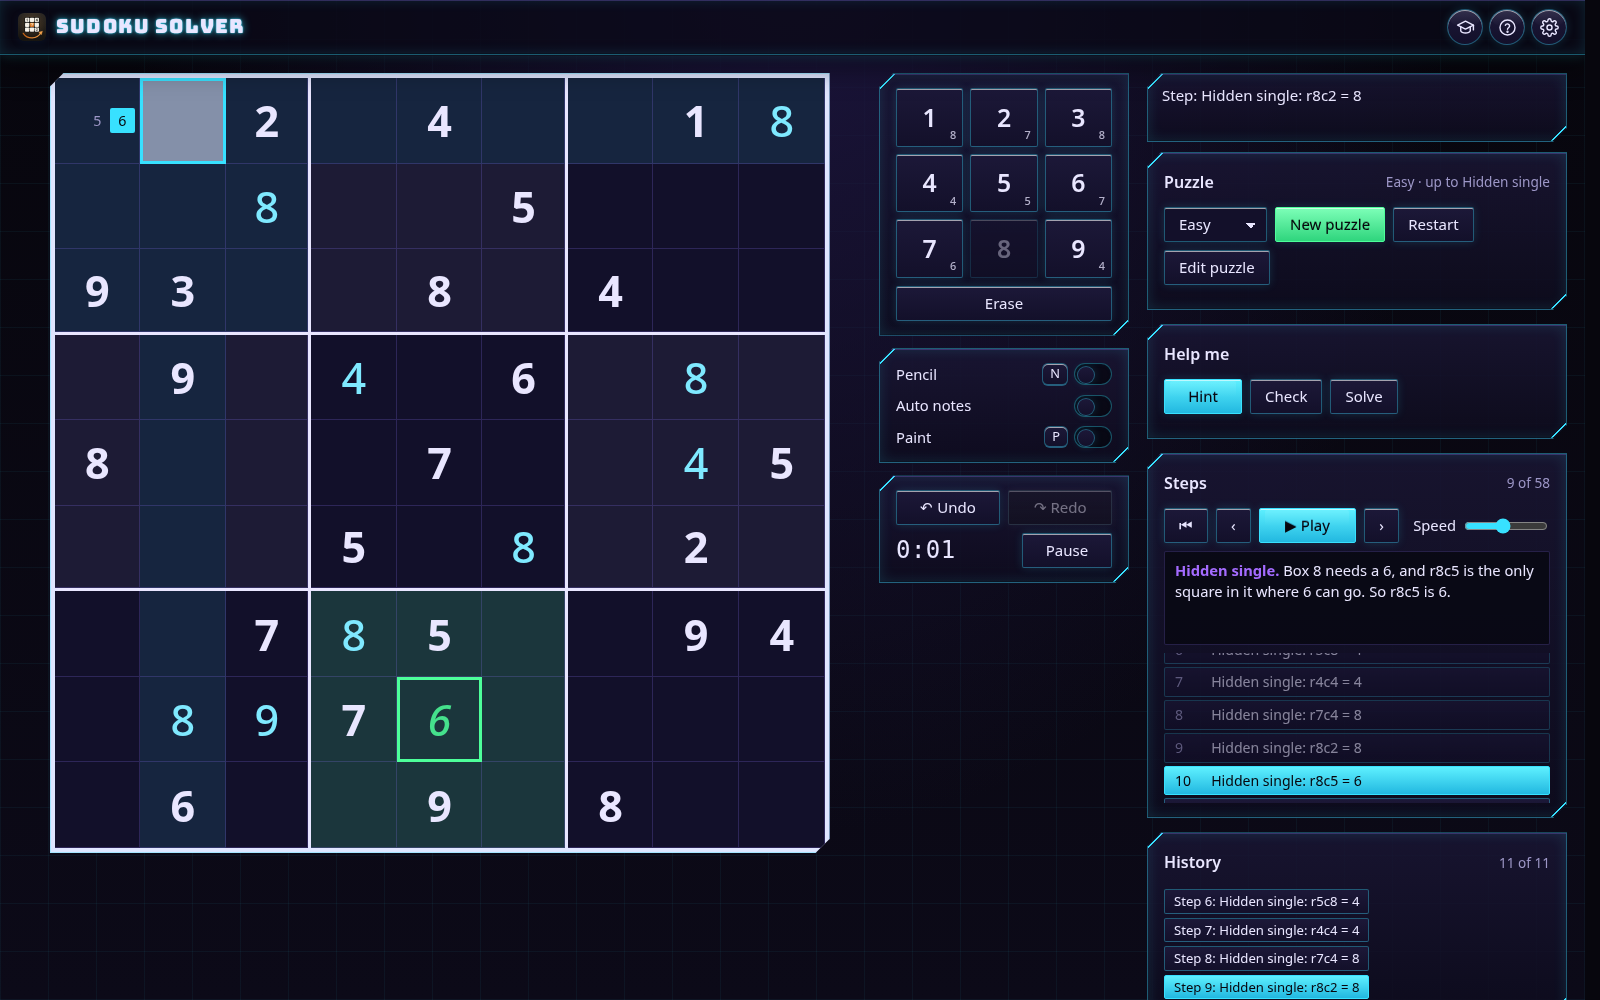
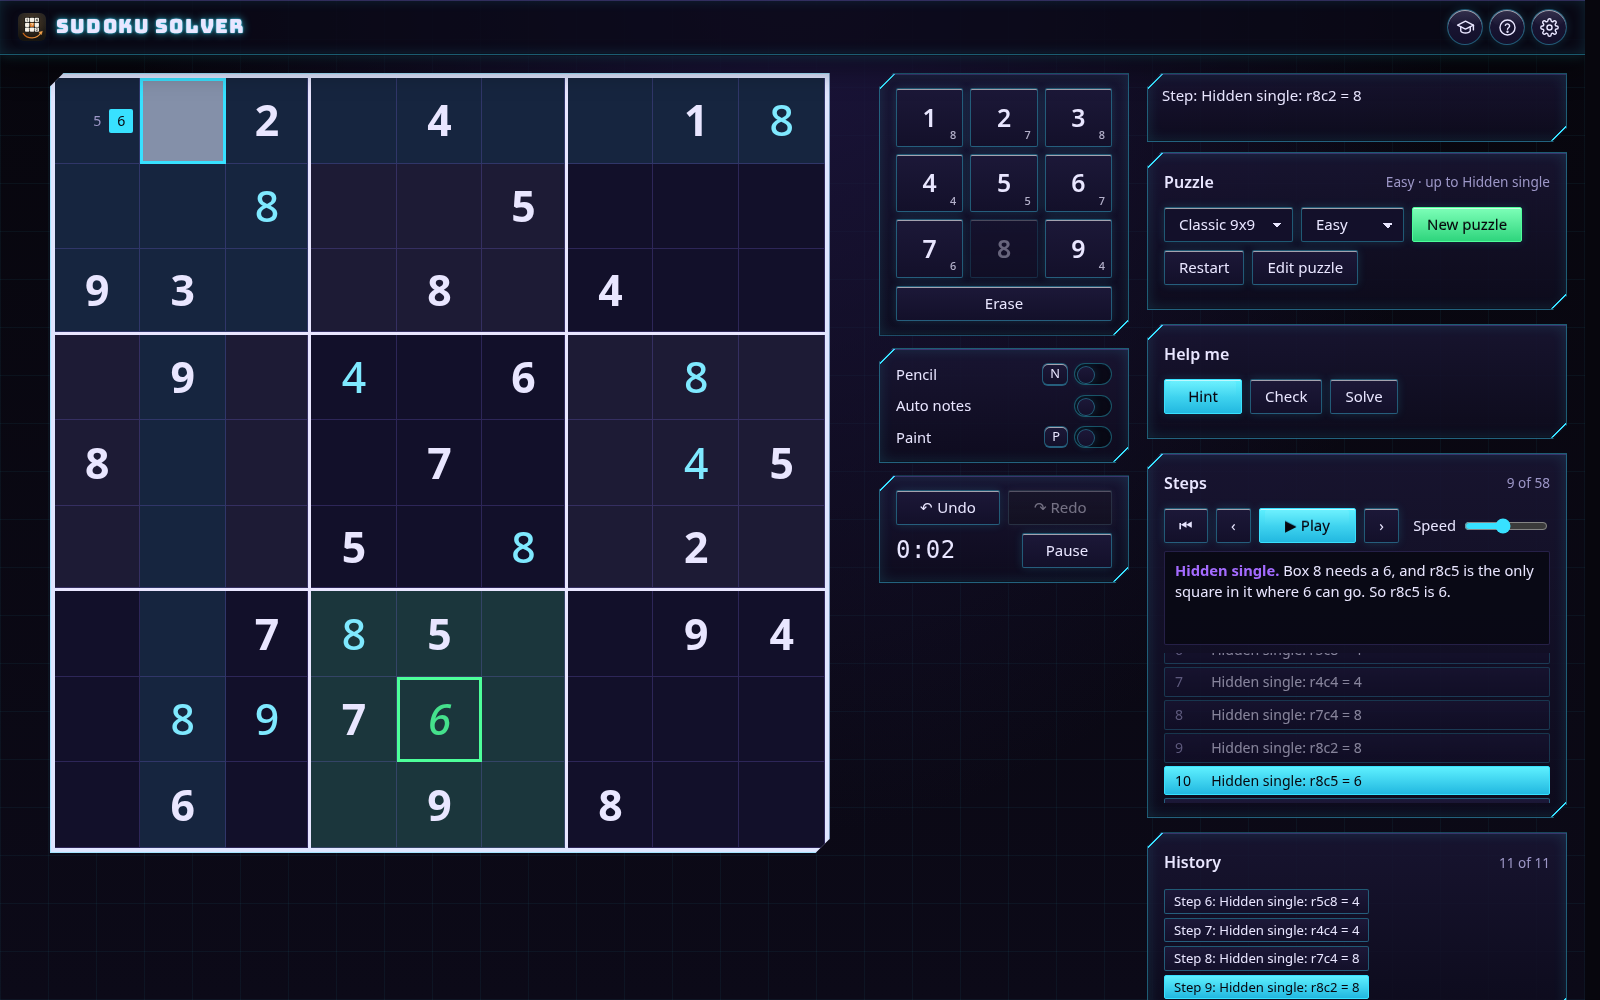
Retake screenshots and add Killer and Mini shots

diff --git a/docs/release-notes/v1.0.0.md b/docs/release-notes/v1.0.0.md
@@ -4,11 +4,13 @@ The third app in the puzzle suite, after Cube Solver and Chess Solver.
 
 ### Added
 - A 9x9 grid you can fill by clicking, typing, the number pad or the digit buttons, with locked given digits, pencil marks (by hand or automatic), paint mode and red highlighting for clashes.
-- New puzzles at Easy, Medium, Hard and Expert. Every one has exactly one answer, rated by the hardest trick it needs.
+- New puzzles at Easy, Medium, Hard, Expert and Fiendish. Every one has exactly one answer, rated by the hardest trick it needs.
+- Five puzzle shapes: Classic, Diagonal, Killer (cages with sums), Mini 6x6 and Mini 4x4.
+- Show mistakes: wrong digits are marked straight away (you can switch it off in Settings).
 - Hints that name the trick a person would use next, outline the squares involved and explain it in plain words.
 - Step-by-step playback of the whole solution with a speed slider, and a clickable history to jump backwards or forwards.
 - An instant solver that also spots puzzles with no answer or more than one.
-- Type in your own puzzle, load one from 81 digits, or share a link with your progress.
+- Type in your own puzzle, load one from its digits, or share a link with your progress.
 - A timer, keyboard shortcuts, lessons on the rules and tricks, and an app tour.
 - Four themes (Matte, Frutiger Aero, Neon, Neubrutalism), each light and dark, following your computer by default.
 - Works offline in the browser, installs as a web app, and installs on Windows.
